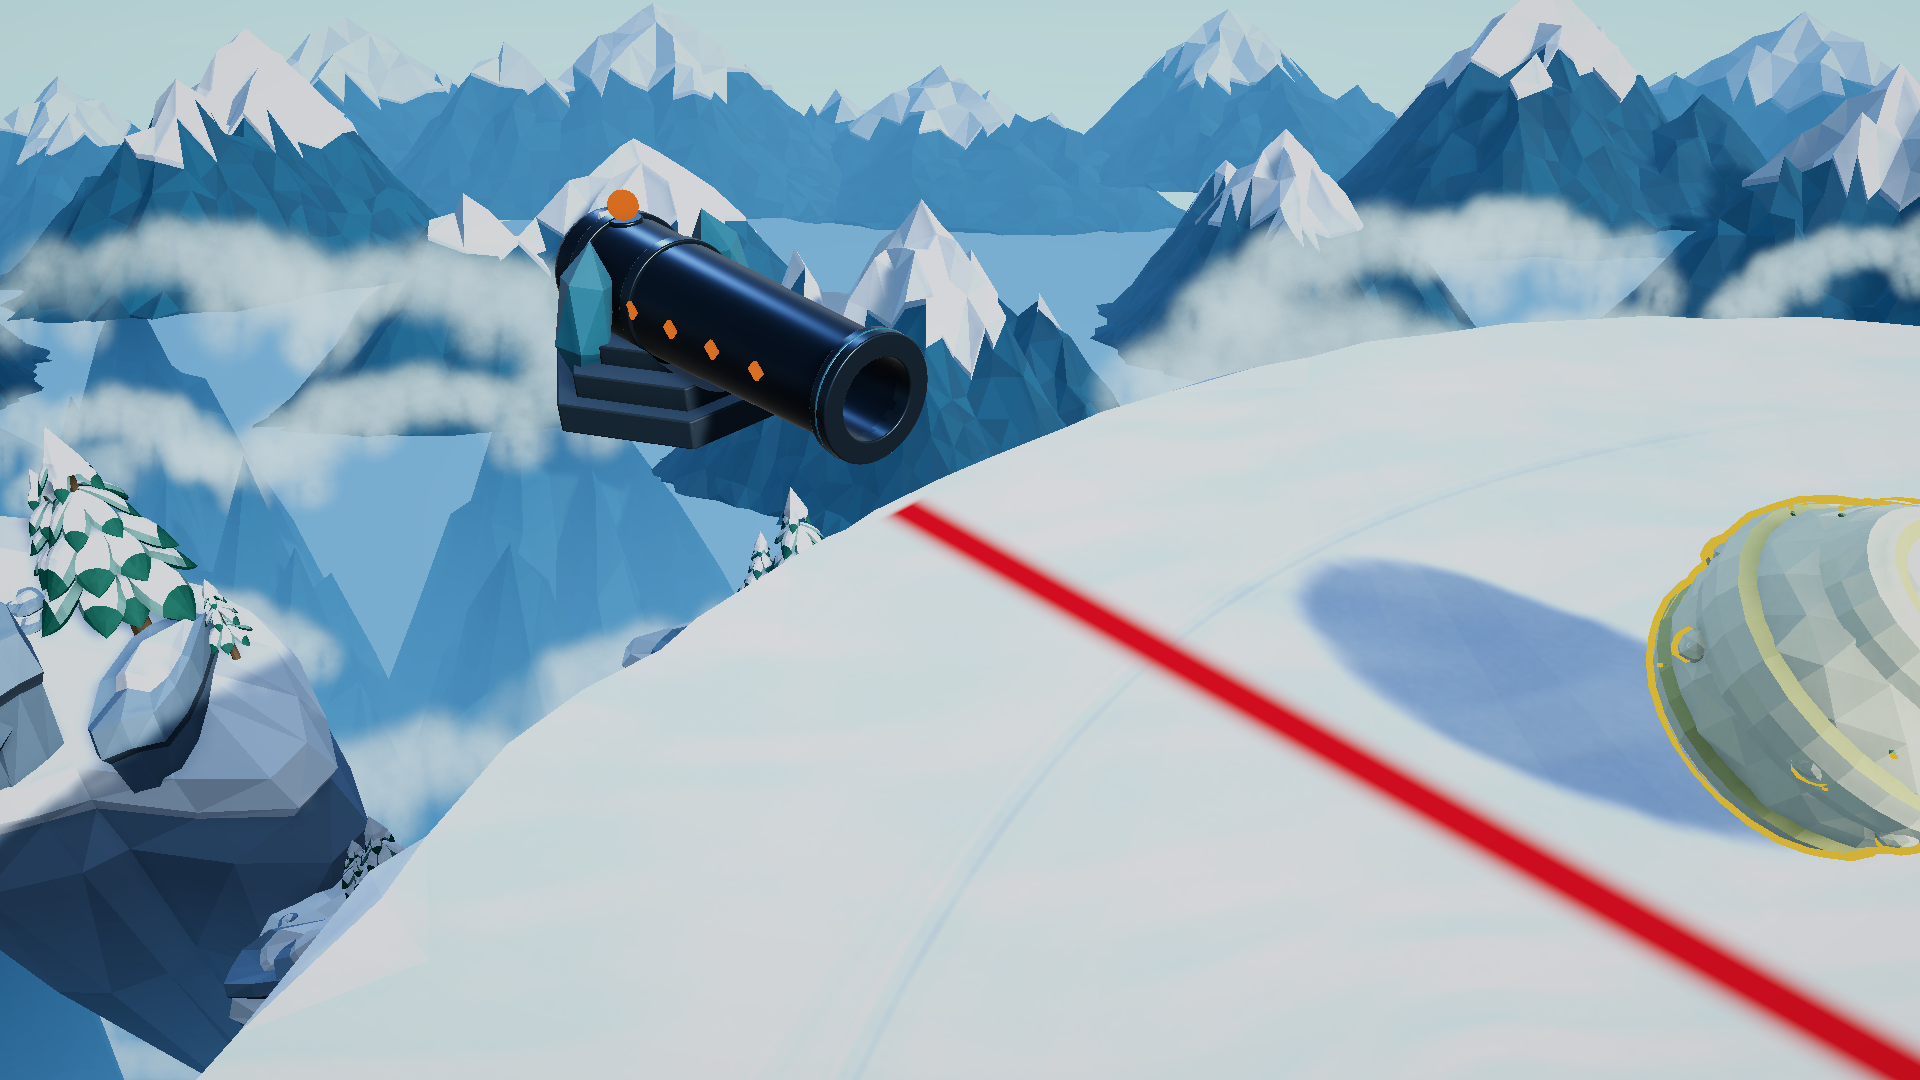
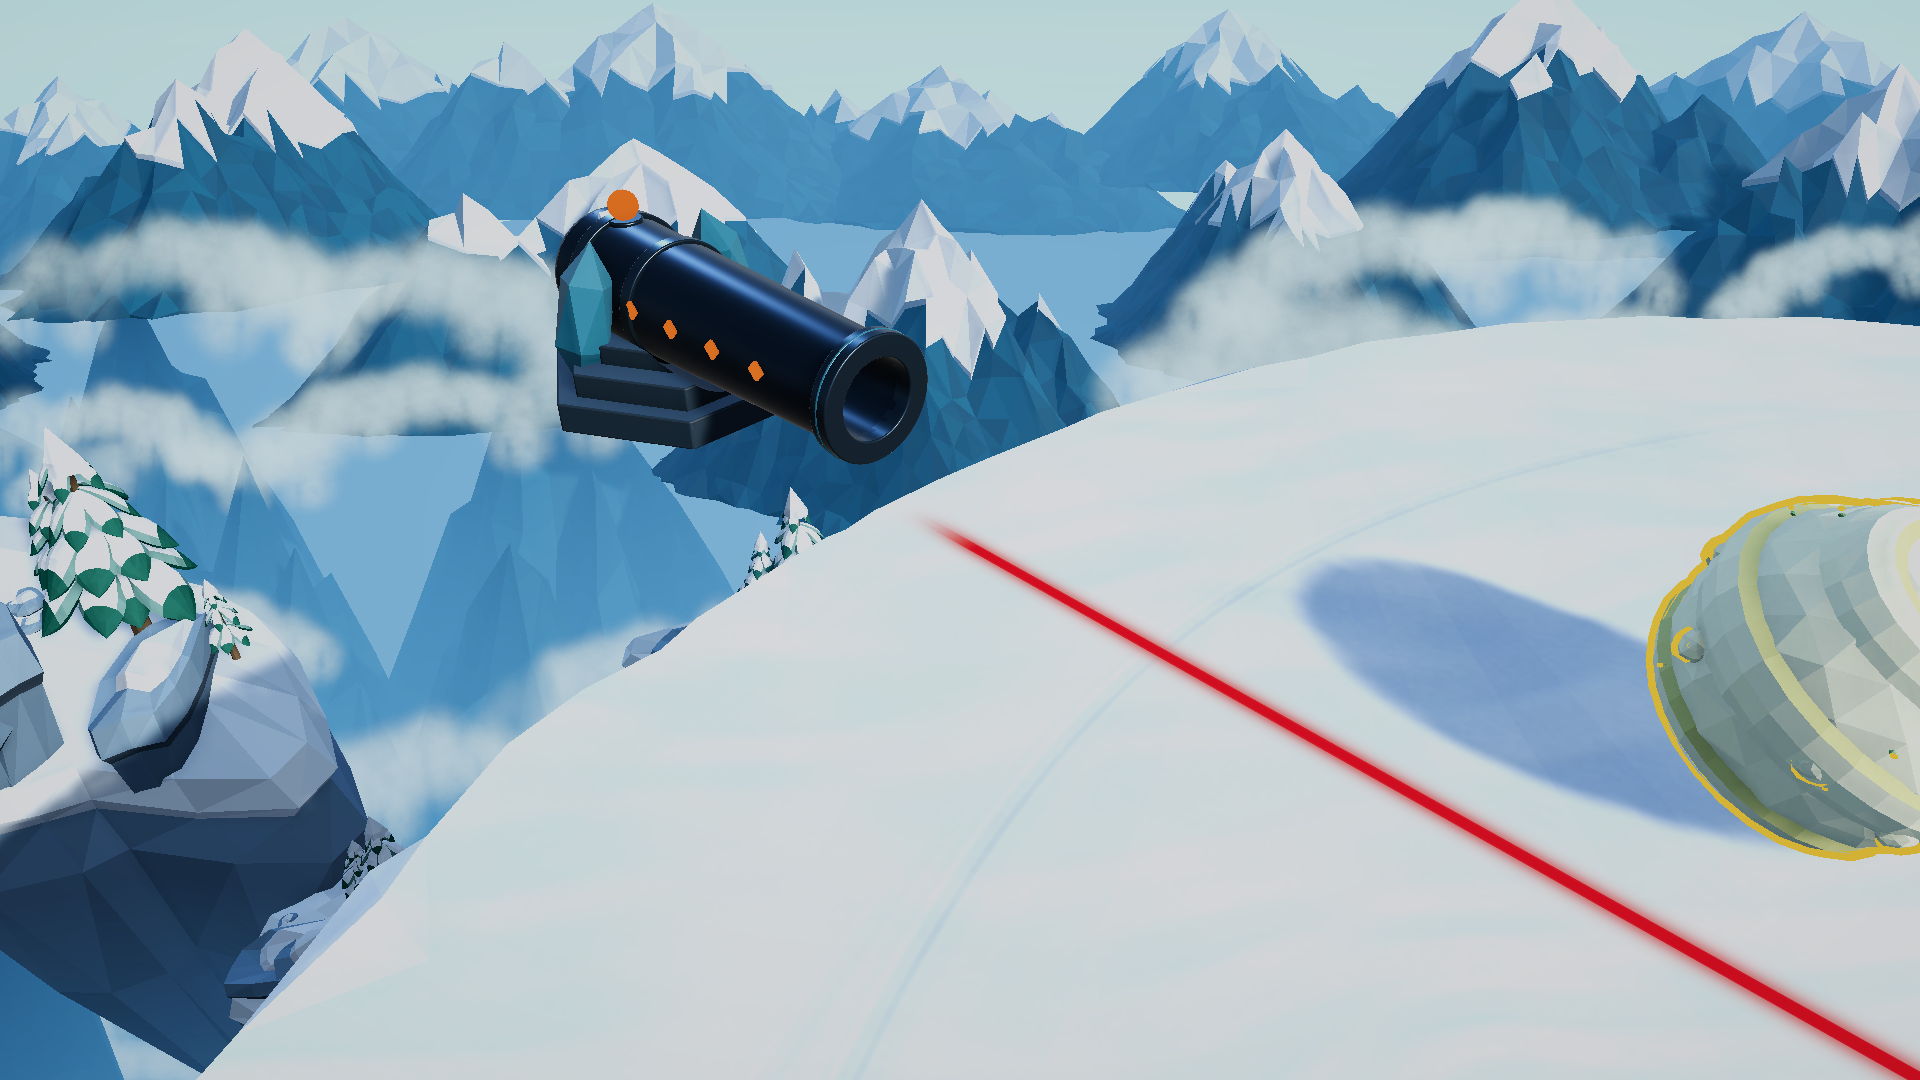
feat(cannon): make the warning glow borderless and more natural
Replace the two-stop gradient with a layered glow whose alpha reaches zero exactly at the ribbon border with zero slope, so the light melts into the snow instead of ending on a rim. Add low-frequency energy variation along the lane, edge grain, tapered ends, slowing breathing and a travelling highlight while keeping the 0.54 m width and the vivid red core.

Re-rendered the review frames and runtime screenshot, rebuilt the Windows player and re-ran the 65 cannon checks.

Changed region(s): [[0.4688, 0.4583, 1.0, 1.0]]

diff --git a/Assets/SnowballArena/Scripts/Presentation/CannonWarningVisual.cs b/Assets/SnowballArena/Scripts/Presentation/CannonWarningVisual.cs
@@ -6,8 +6,8 @@ namespace SnowballArena
     public static class CannonWarningVisual
     {
         // The shader keeps a vivid core over 19% of the ribbon and fades from
-        // there to transparent; CoreFraction must stay in sync with the 0.19
-        // constant in CannonWarning.shader.
+        // there through a two-stage soft glow; CoreFraction must stay in sync
+        // with the 0.17..0.21 core edge in CannonWarning.shader.
         public const float CoreFraction = .19f;
         // 3x the first infrared ribbon (0.18 m).
         public const float Width = 0.54f;
@@ -30,6 +30,13 @@ namespace SnowballArena
             line.useWorldSpace = true;
             line.positionCount = 2;
             line.widthMultiplier = Width;
+            // Narrow the ribbon slightly at both ends so it melts into the snow
+            // instead of stopping on a straight cut.
+            line.widthCurve = new AnimationCurve(
+                new Keyframe(0f, .78f),
+                new Keyframe(.05f, 1f),
+                new Keyframe(.95f, 1f),
+                new Keyframe(1f, .78f));
             line.textureMode = LineTextureMode.Stretch;
             line.sharedMaterial = material;
             line.shadowCastingMode = ShadowCastingMode.Off;

diff --git a/Assets/SnowballArena/Editor/CannonWarningPreview.cs b/Assets/SnowballArena/Editor/CannonWarningPreview.cs
@@ -85,7 +85,8 @@ namespace SnowballArena.Editor
                 File.WriteAllText(Output + "/render-report.txt",
                     "Production warning rendered in the Unity scene; no scene saves.\n" +
                     $"Core width: approximately {CannonWarningVisual.Width * CannonWarningVisual.CoreFraction:F3} m; gradient ribbon width: {CannonWarningVisual.Width:F2} m.\n" +
-                    "Across the width: vivid red center fading naturally through pale red to a transparent edge.\n" +
+                    "Across the width: vivid red core, two-stage soft glow fading to a transparent edge.\n" +
+                    "Along the lane: low frequency energy variation, tapered ends, slow breathing and a travelling highlight.\n" +
                     $"Ground offset: {CannonWarningVisual.GroundOffset:F3} m; boundary inset: {CannonWarningVisual.BoundaryInset:F2} m; normal depth testing.\n" +
                     $"Lane start: {start}; lane end: {end}.\n");
                 Debug.Log("INFRARED WARNING REVIEW: " + Path.GetFullPath(Output));

diff --git a/docs/art/cannon-infrared-warning/README.md b/docs/art/cannon-infrared-warning/README.md
@@ -1,6 +1,6 @@
 # 大炮红外警示线
 
-分支：`feat/cannon-infrared-warning-preview`。效果已接入正式游戏，并按后续反馈增加横向颜色渐变、将宽度扩大为初版红外线的 3 倍。
+分支：`feat/cannon-infrared-warning-preview`。效果已接入正式游戏，并按后续反馈增加横向颜色渐变、将宽度扩大为初版红外线的 3 倍，再升级为双层柔光、雪面投影质感与轻微动态。
 
 此处图片直接由现有 Match 场景和 B 型大炮模型在 Unity 中渲染。预览工具与正式炮台共用 `CannonWarningVisual` 和 `CannonWarning.mat`，只创建临时对象，不保存场景。原有的大炮计时、炮弹路线与命中规则沿用原实现。
 
@@ -10,7 +10,7 @@
 - `04-current-muzzle-detail.png`：相同角度的修改前效果。
 - `05-runtime-warning.png`：更新后的 Windows 开发包实际炮台预警截图。
 
-效果沿宽度从中间的大红色，自然过渡到两侧的浅红色，并在外缘透明淡出。总宽由 0.18 m 扩大至 0.54 m，其中大红细芯约 0.103 m；平铺于雪面上方 0.035 m，两端各从实际平台边界内收 0.18 m。LineRenderer 使用固定的雪面法线，不随相机翻转；Shader 使用正常深度检测，避免覆盖炮身和雪球。保留原有三次亮灭的预警节奏。
+效果沿宽度从中间的大红色，自然过渡到两层柔光：紧贴核心的内晕快速衰减，外侧再叠一层更宽的光晕；最外层用很长的平缓衰减完全融入雪面，alpha 在条带边缘正好归零且斜率为零，看不出条带的边界。总宽由 0.18 m 扩大至 0.54 m，其中大红细芯约 0.103 m。光晕上叠加沿长度的低频明暗起伏、边缘颗粒和轻微宽度扰动，端部收窄，避免笔直的“贴纸”轮廓；亮度上还有缓慢呼吸和一段沿线条移动的柔光高光。所有动态只改变亮度与微宽度，不改变色相、判定与三次闪烁节奏。线条平铺于雪面上方 0.035 m，两端各从实际平台边界内收 0.18 m。LineRenderer 使用固定的雪面法线，不随相机翻转；Shader 使用正常深度检测，避免覆盖炮身和雪球，并对淡出的 alpha 做抖动以消除色带。
 
 Unity 菜单：`Snowball Arena > Preview Infrared Warning`。
 
@@ -30,4 +30,4 @@ Unity 菜单：`Snowball Arena > Preview Infrared Warning`。
 
 专项检查在原有炮击检查上增加了实际警示线网格的落地、平台内收与打包 Shader 支持验证。
 
-验证结果：Windows 开发包构建成功；炮台专项 65 项检查全部通过。完整结果见 [validation.txt](validation.txt)。渐变版的全景、炮口近景和开发包实机图已重新渲染并目视核对：中间大红色、两侧渐变为浅红、外缘自然透明淡出，警示线只覆盖平台雪面且不穿过炮身。`05-runtime-warning.png` 来自本次 Windows 开发包冒烟运行。
+验证结果：Windows 开发包构建成功；炮台专项 65 项检查全部通过。完整结果见 [validation.txt](validation.txt)。两张全景与炮口近景已重新渲染并目视核对：大红色核心、双层柔光、外缘自然透明淡出，端部收窄，光晕上的明暗起伏与颗粒可见；截图只记录呼吸与流光的某一瞬间。`05-runtime-warning.png` 来自本次 Windows 开发包冒烟运行。
